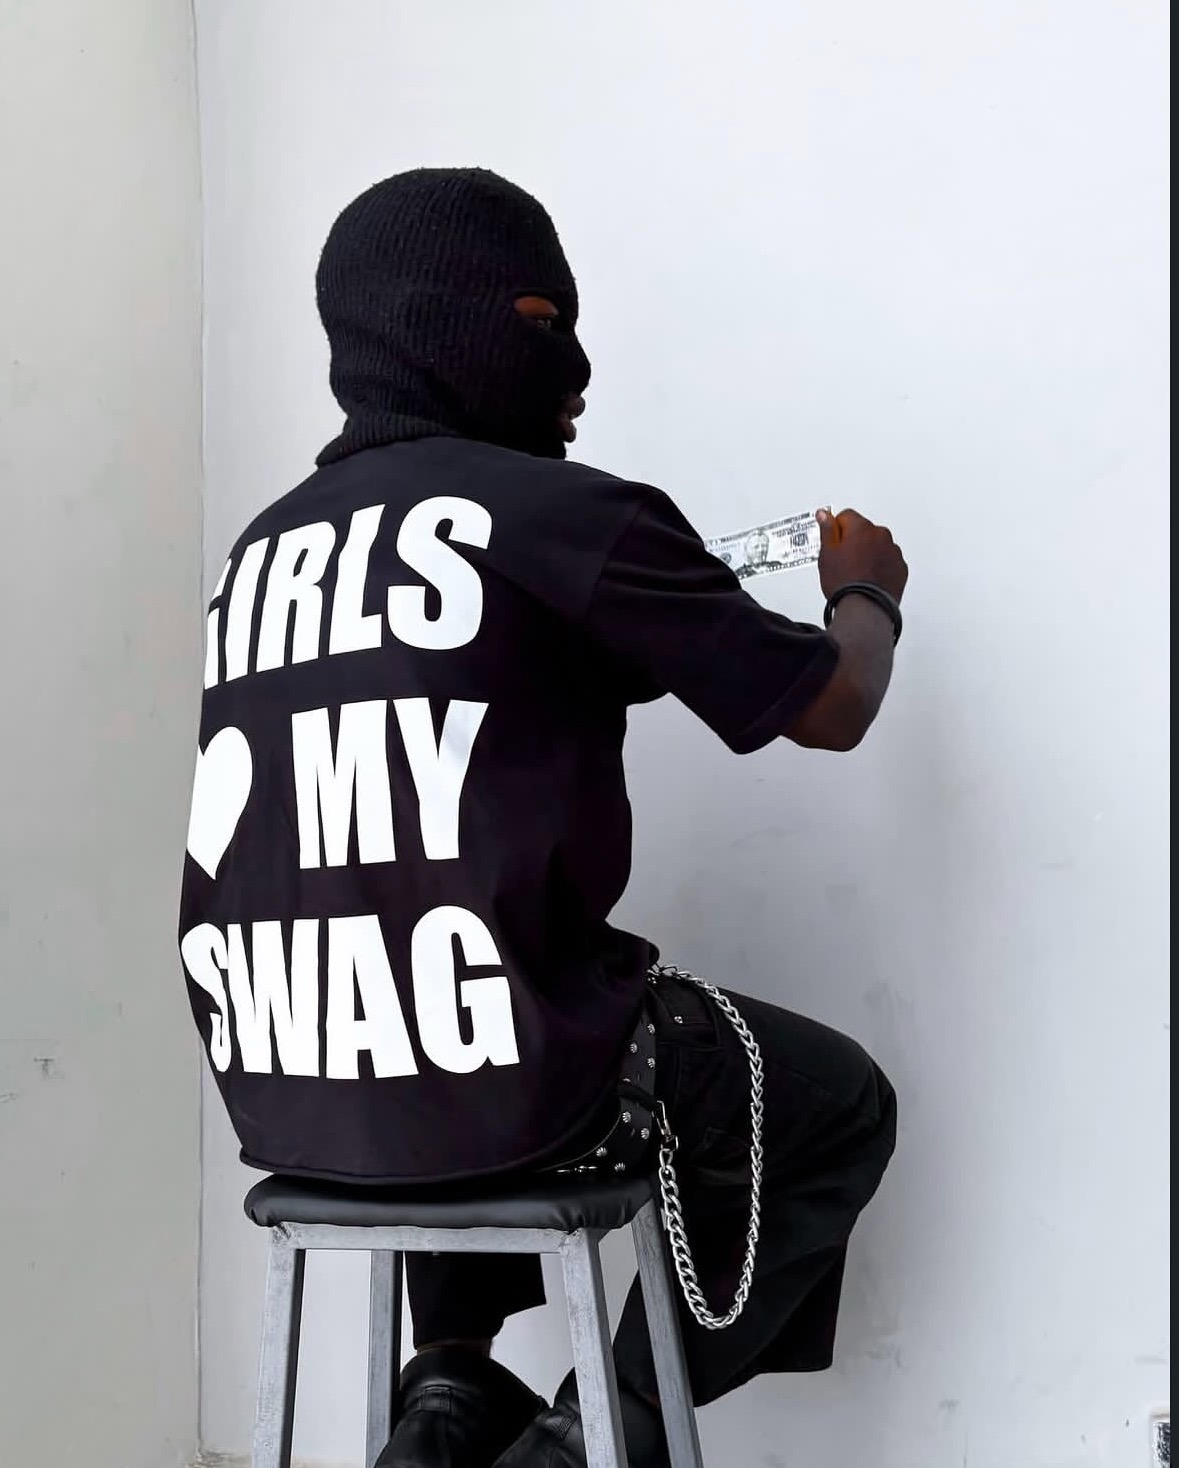
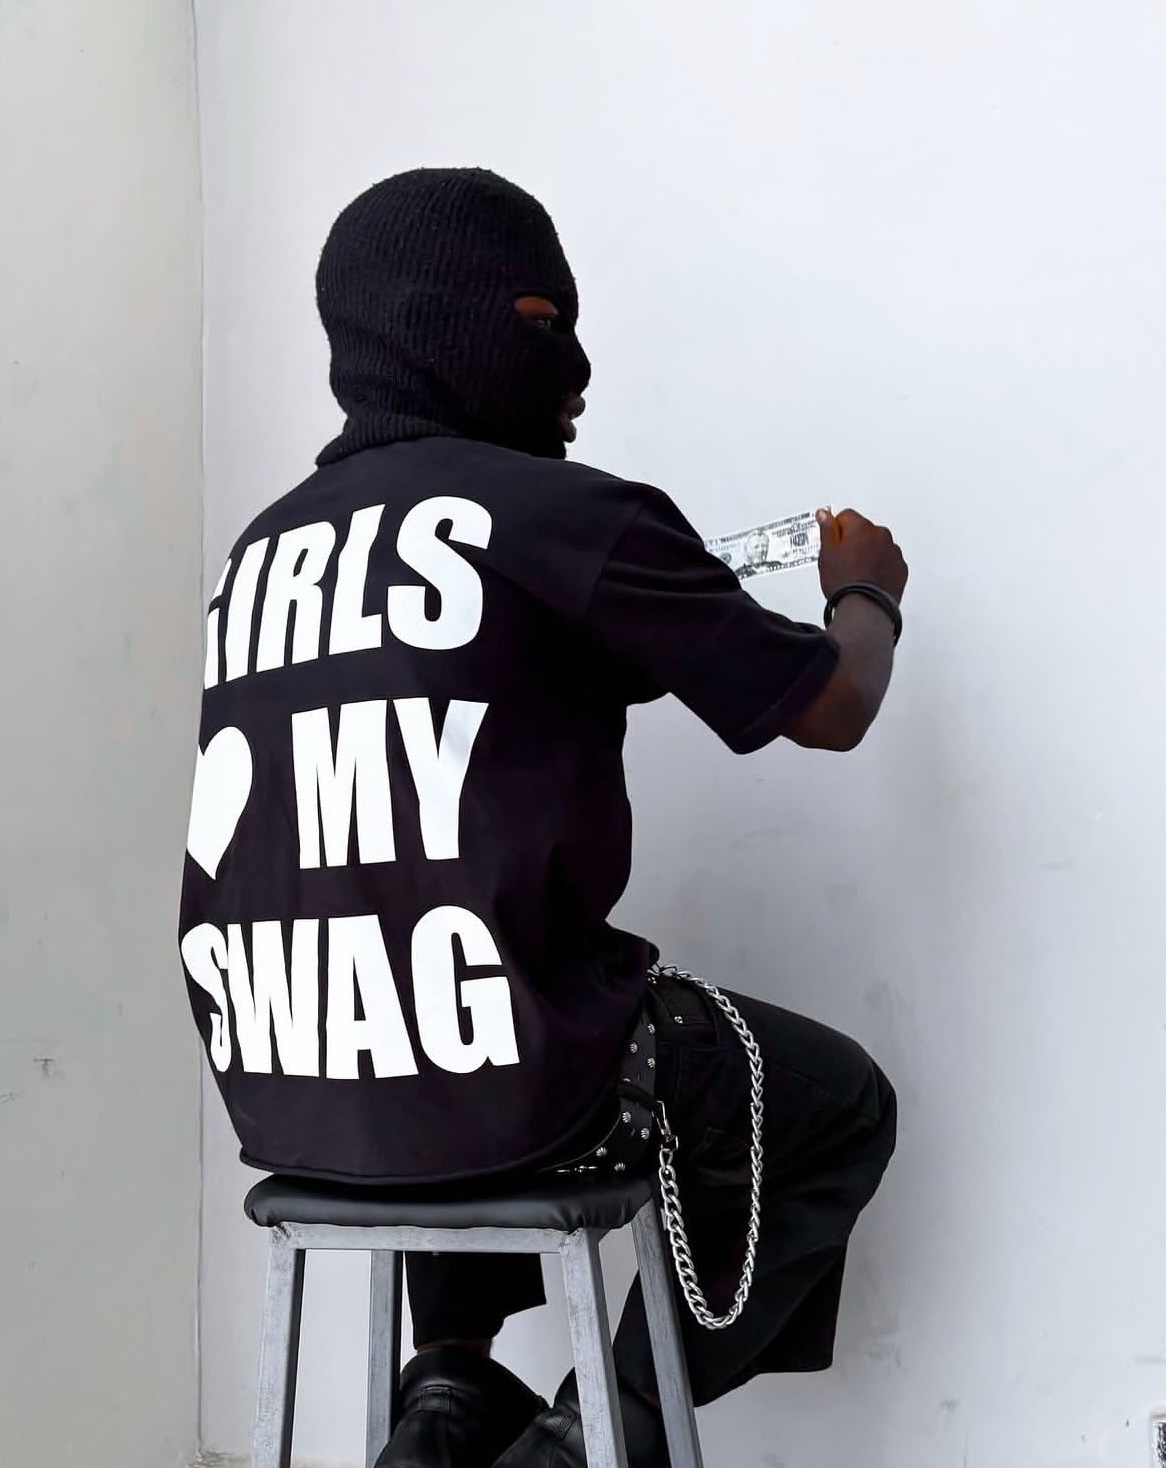
Sync latest fixes

diff --git a/src/Pages/PlaceOrder.jsx b/src/Pages/PlaceOrder.jsx
@@ -40,7 +40,11 @@ export const PlaceOrder = () => {
         })
     }
 
+    const [isSubmitting, setIsSubmitting] = useState(false)
+
     const handlePlaceOrder = () => {
+
+        if (isSubmitting) return
 
         const { firstName, lastName, email, street, city, state, country, phone } = formData
 
@@ -49,8 +53,10 @@ export const PlaceOrder = () => {
             return;
         }
 
+        setIsSubmitting(true)
         placeOrder({ ...formData, estimatedDelivery: getEstimatedDeliveryDate() })
     }
+
 
     const availableCities = formData.state ? nigeriaLocations[formData.state] || [] : []
 
@@ -111,8 +117,8 @@ export const PlaceOrder = () => {
                 <CartTotal state={formData.state} />
 
                 <div>
-                    <button onClick={handlePlaceOrder} className='proceed-btn'>
-                        PLACE ORDER
+                    <button onClick={handlePlaceOrder} className='proceed-btn' disabled={isSubmitting}>
+                        {isSubmitting ? 'Placing Order...' : 'PLACE ORDER'}
                     </button>
                 </div>
 

diff --git a/src/Pages/PlaceOrder.css b/src/Pages/PlaceOrder.css
@@ -42,13 +42,13 @@
 
 
 .placeorder-input-small {
-    width:200px;
+    width:50%;
     padding:10px 4px;
 }
 
 
 .placeorder-input {
-    width:420px;
+    width:97%;
     padding:10px 4px;
 }
 
